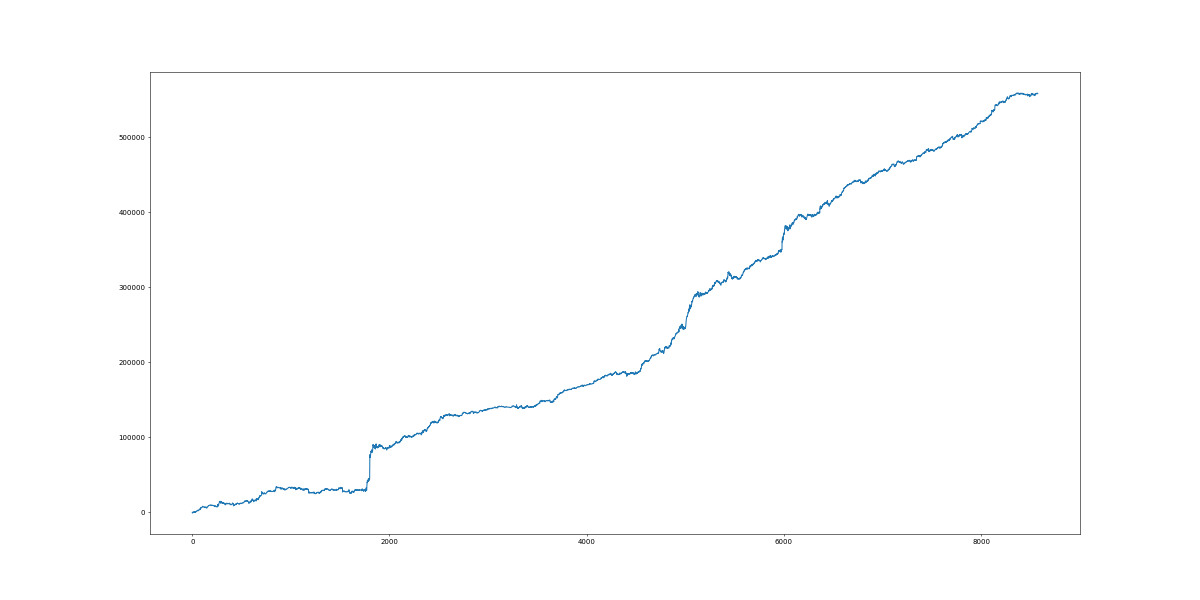
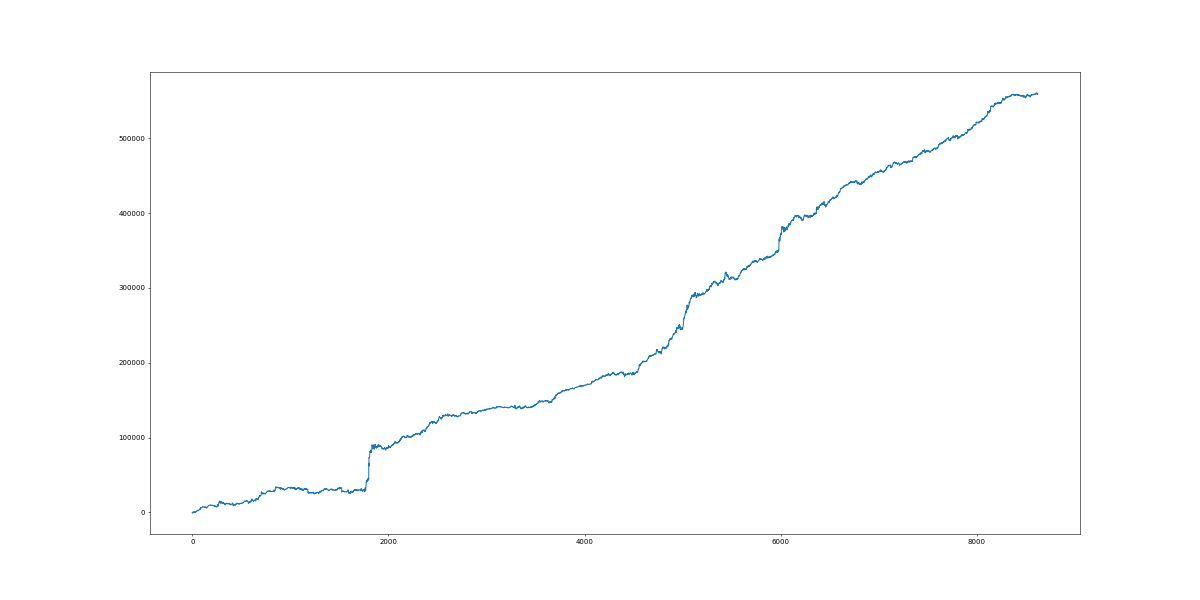
update backtest

diff --git a/backtest.py b/backtest.py
@@ -9,20 +9,20 @@ from lib import repository
 """
 ----------------------------------------------------------
 単利パフォーマンス
-2019-10-02 06:00:00 ～ 2022-01-15 01:00:00
+2019-10-02 06:00:00 ～ 2022-01-19 07:00:00
 bet 50,000
-総利益 558,576 円
-pf 1.4849692157844119
+総利益 560,339 円
+pf 1.4844423189575828
 wp 56
-cnt 8576
+cnt 8622
 ----------------------------------------------------------
 複利パフォーマンス
-2019-10-02 06:00:00 ～ 2022-01-15 01:00:00
+2019-10-02 06:00:00 ～ 2022-01-19 07:00:00
 initial_bet 50,000
-総利益 1,989,847,419 円
-pf 1.492576362877207
+総利益 2,058,374,351 円
+pf 1.4855189596593728
 wp 56
-cnt 8576
+cnt 8622
 """
 
 
